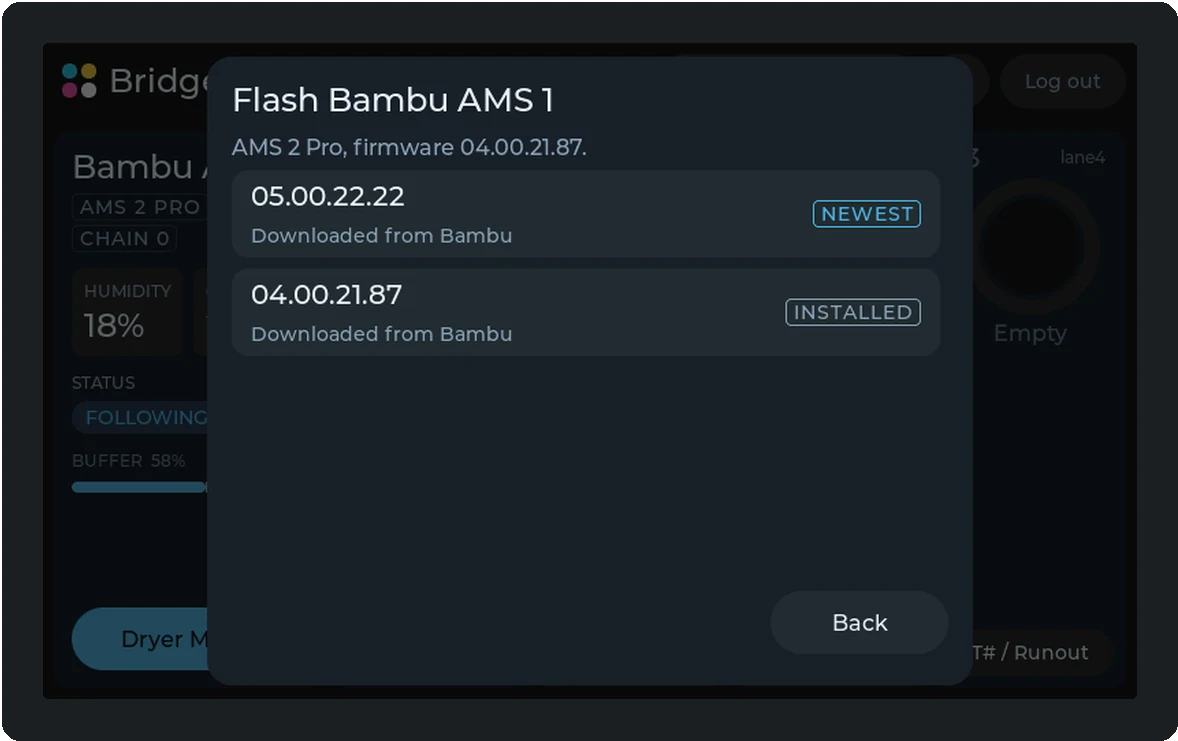
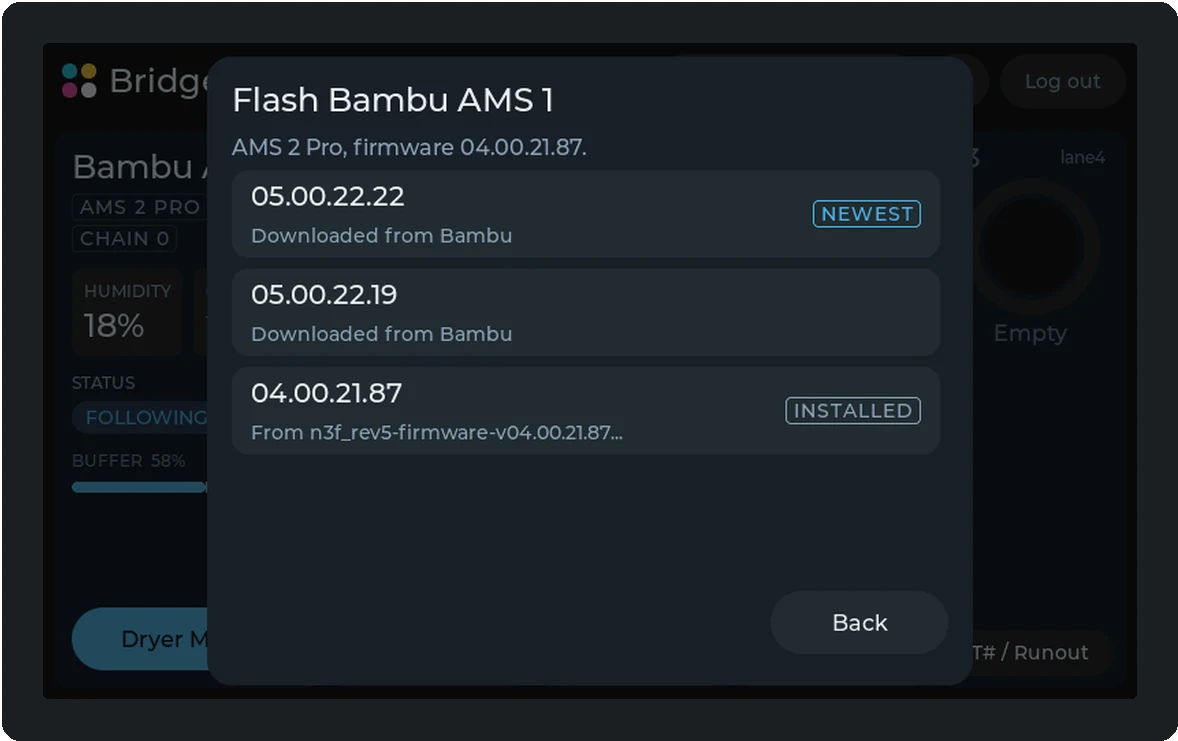
Show Bambu's newest two AMS 2 Pro versions on the Flash AMS screenshot
The versions screen now lists 05.00.22.22 and 05.00.22.19 from Bambu, and
the 04.00.21.87 the unit runs from a file beside the updater, as the menu
does.

diff --git a/docs/bridgebox/display.md b/docs/bridgebox/display.md
@@ -120,7 +120,7 @@ first: [Updating the AMS units](firmware.md#updating-the-ams-units) says how.
 
 === "Version"
 
-    ![The versions for an AMS 2 Pro: 05.00.22.22, the newest, and 04.00.21.87, installed](../assets/images/bridgebox/flash-ams-versions.webp){ width="520" loading=lazy }
+    ![The versions for an AMS 2 Pro: 05.00.22.22, the newest, 05.00.22.19, and 04.00.21.87, installed, from a file beside the updater](../assets/images/bridgebox/flash-ams-versions.webp){ width="520" loading=lazy }
 
     The newest two from Bambu for that model, and any image you put beside the updater on the printer. The one the
     unit runs is marked Installed.
